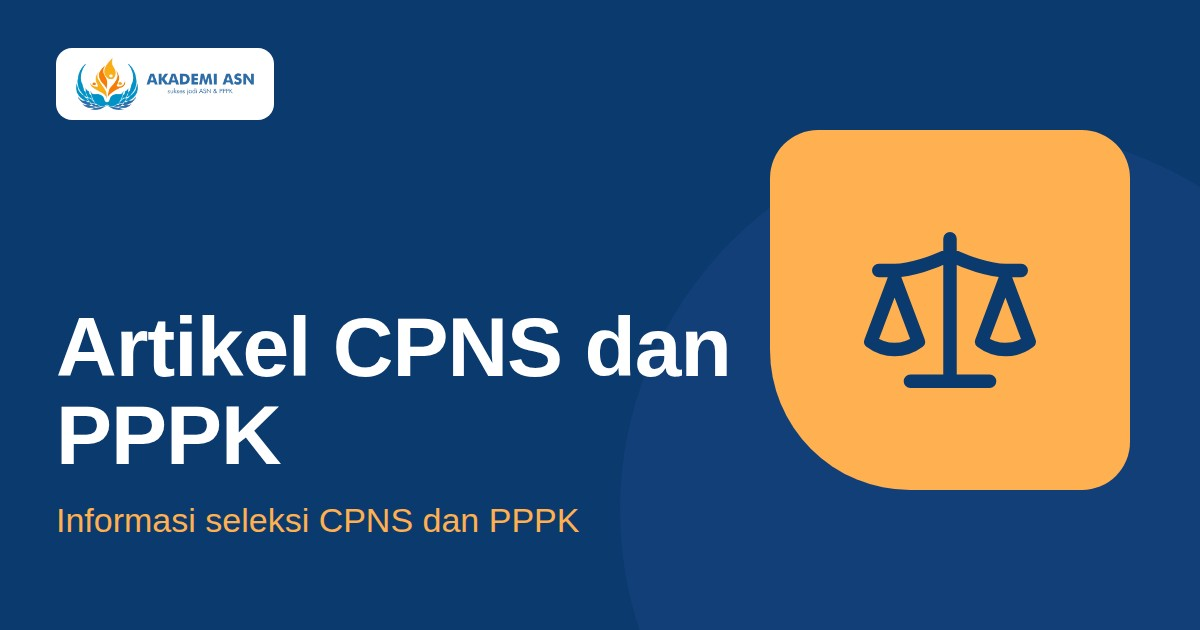
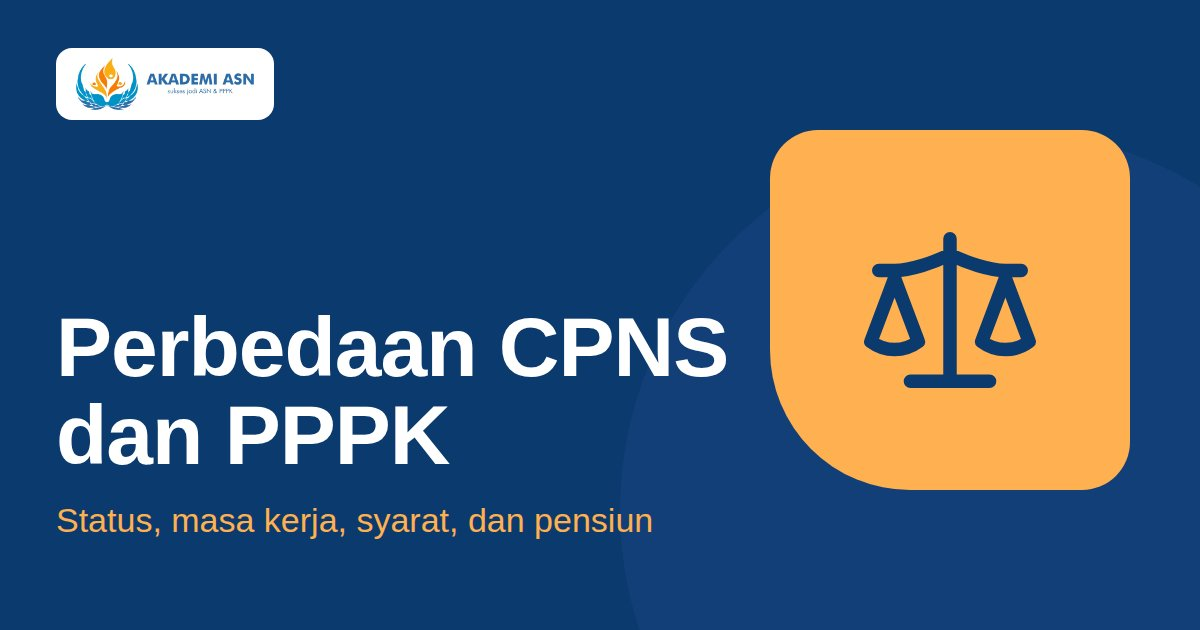
feat: give every Artikel its own cover
The default exam-track covers ("Artikel CPNS" / "Info & tips seleksi
CPNS") said nothing about the Artikel they sat on, and the owner does
not want them on any thumbnail again. `cover` is now required in the
Artikel schema, so typecheck fails for an Artikel without one, and the
default covers and their fallback are removed.

CPNS 2027 and Rekrutmen Bersama BUMN 2026 get dedicated covers, and the
Perbedaan CPNS dan PPPK cover drops its generic label and tagline. The
article-writing guide and /write-article now define how a cover is
written and rendered, and ADRs 0003 and 0005 note that their
default-cover part no longer applies.

Changed region(s): [[0.0308, 0.4825, 0.6167, 0.6032], [0.0308, 0.6333, 0.37, 0.754], [0.0308, 0.7841, 0.555, 0.8444]]

diff --git a/.scratch/blog/covers/cover.html b/.scratch/blog/covers/cover.html
@@ -1,5 +1,5 @@
 <!doctype html>
-<!-- Artikel cover template. Open cover.html#cpns | #pppk | #bumn | #tips-info | #perbedaan-cpns-dan-pppk | #materi-tkp-cpns | #pppk-paruh-waktu-jadi-penuh-waktu at a 1200x630 viewport. -->
+<!-- Artikel cover template. Open cover.html#perbedaan-cpns-dan-pppk | #materi-tkp-cpns | #pppk-paruh-waktu-jadi-penuh-waktu | #cpns-2027 | #rekrutmen-bersama-bumn-2026 at a 1200x630 viewport. -->
 <html lang="id">
 <head>
 <meta charset="utf-8">
@@ -28,15 +28,13 @@
 <script>
   const svg = (d) => `<svg viewBox="0 0 24 24">${d}</svg>`;
   const covers = {
-    cpns: ["Artikel CPNS", "Info & tips seleksi CPNS", svg('<path d="M3 21h18M5 21V10M19 21V10M9 21V10M15 21V10M2 10l10-6 10 6"/>')],
-    pppk: ["Artikel PPPK", "Info & tips seleksi PPPK", svg('<rect x="5" y="3" width="14" height="18" rx="2"/><path d="M9 8h6M9 12h6M9 16h3"/>')],
-    bumn: ["Artikel BUMN", "Info & tips Rekrutmen Bersama BUMN", svg('<rect x="3" y="7" width="18" height="13" rx="2"/><path d="M9 7V5a2 2 0 0 1 2-2h2a2 2 0 0 1 2 2v2M3 13h18"/>')],
-    "perbedaan-cpns-dan-pppk": ["Artikel CPNS dan PPPK", "Informasi seleksi CPNS dan PPPK", svg('<path d="M12 3v18M7 21h10M3 7h2c2 0 5-1 7-2 2 1 5 2 7 2h2"/><path d="m16 16 3-8 3 8c-.87.65-1.92 1-3 1s-2.13-.35-3-1Z"/><path d="m2 16 3-8 3 8c-.87.65-1.92 1-3 1s-2.13-.35-3-1Z"/>')],
+    "perbedaan-cpns-dan-pppk": ["Perbedaan CPNS dan PPPK", "Status, masa kerja, syarat, dan pensiun", svg('<path d="M12 3v18M7 21h10M3 7h2c2 0 5-1 7-2 2 1 5 2 7 2h2"/><path d="m16 16 3-8 3 8c-.87.65-1.92 1-3 1s-2.13-.35-3-1Z"/><path d="m2 16 3-8 3 8c-.87.65-1.92 1-3 1s-2.13-.35-3-1Z"/>')],
     "materi-tkp-cpns": ["Materi TKP CPNS", "6 aspek dan sistem penilaiannya", svg('<path d="M16 21v-2a4 4 0 0 0-4-4H6a4 4 0 0 0-4 4v2"/><circle cx="9" cy="7" r="4"/><path d="m16 11 2 2 4-4"/>')],
     "pppk-paruh-waktu-jadi-penuh-waktu": ["PPPK Paruh Waktu", "Jalur jadi PPPK penuh waktu", svg('<path d="M16 7h6v6"/><path d="m22 7-8.5 8.5-5-5L2 17"/>')],
-    "tips-info": ["Tips & Info", "Seleksi CPNS, PPPK, dan BUMN", svg('<path d="M9 18h6M10 21h4M12 3a6 6 0 0 0-3.5 10.9c.6.5 1 1.2 1 2.1h5c0-.9.4-1.6 1-2.1A6 6 0 0 0 12 3z"/>')],
+    "cpns-2027": ["CPNS 2027", "Jadwal pendaftaran dan syarat pelamar", svg('<path d="M8 2v4M16 2v4"/><rect x="3" y="4" width="18" height="18" rx="2"/><path d="M3 10h18"/>')],
+    "rekrutmen-bersama-bumn-2026": ["Rekrutmen BUMN 2026", "Status pendaftaran dan cara bersiap", svg('<rect x="3" y="7" width="18" height="13" rx="2"/><path d="M9 7V5a2 2 0 0 1 2-2h2a2 2 0 0 1 2 2v2M3 13h18"/>')],
   };
-  const [label, tagline, icon] = covers[location.hash.slice(1)] ?? covers.cpns;
+  const [label, tagline, icon] = covers[location.hash.slice(1)];
   document.getElementById("label").textContent = label;
   document.getElementById("tagline").textContent = tagline;
   document.getElementById("icon").innerHTML = icon;

diff --git a/data/artikel.ts b/data/artikel.ts
@@ -12,6 +12,10 @@ export const artikel = [
       "Pendaftaran CPNS 2027 diperkirakan dibuka awal 2027, tetapi jadwal, formasi, dan syaratnya belum ditetapkan. Ini yang sudah resmi per 20 Oktober 2026.",
     kategori: ["informasi"],
     examTrack: ["cpns"],
+    cover: {
+      src: "/img/blog/cover-cpns-2027.jpg",
+      alt: "CPNS 2027: jadwal pendaftaran dan syarat pelamar dari Akademi ASN",
+    },
     penulis: "dimas-maulana",
     status: "published",
     publishedAt: "2026-10-20",
@@ -236,6 +240,10 @@ export const artikel = [
       "Rekrutmen Bersama BUMN 2026 belum diumumkan FHCI maupun BP BUMN per 13 Oktober 2026. Pelajari alur RBB 2025 sebagai acuan dan kenali tautan pendaftaran palsu.",
     kategori: ["informasi", "tips"],
     examTrack: ["bumn"],
+    cover: {
+      src: "/img/blog/cover-rekrutmen-bersama-bumn-2026.jpg",
+      alt: "Rekrutmen Bersama BUMN 2026: status pendaftaran dan cara bersiap dari Akademi ASN",
+    },
     penulis: "dimas-maulana",
     status: "published",
     publishedAt: "2026-10-13",
@@ -374,7 +382,7 @@ export const artikel = [
     examTrack: ["cpns", "pppk"],
     cover: {
       src: "/img/blog/cover-perbedaan-cpns-dan-pppk.jpg",
-      alt: "Perbedaan CPNS dan PPPK: informasi seleksi dari Akademi ASN",
+      alt: "Perbedaan CPNS dan PPPK: status, masa kerja, syarat, dan pensiun dari Akademi ASN",
     },
     penulis: "dimas-maulana",
     status: "published",

diff --git a/lib/artikel.ts b/lib/artikel.ts
@@ -1,7 +1,6 @@
 import { readdirSync, readFileSync } from "node:fs";
 import path from "node:path";
 import { artikel } from "@/data/artikel";
-import { artikelCover } from "@/data/artikel-cover";
 import { kategori } from "@/data/kategori";
 import { penulis } from "@/data/penulis";
 import { artikelMatches } from "@/lib/artikel-search";
@@ -44,14 +43,14 @@ export const getKategori = (slug: string) =>
 export const getPenulis = (slug: string) =>
   penulis.find((entry) => entry.slug === slug);
 
-// An Artikel's primary Kategori and the fields that fall back to its first
-// exam track or to the title. `KategoriSlug` types the slug, so the lookup
+// An Artikel's primary Kategori, cover, and the seoTitle that falls back to
+// the title. `KategoriSlug` types the slug, so the lookup
 // always finds an entry.
 export const resolveArtikel = (entry: Artikel) => {
   const kategori = getKategori(entry.kategori[0])!;
   return {
     kategori,
-    cover: entry.cover ?? artikelCover[entry.examTrack[0]],
+    cover: entry.cover,
     seoTitle: entry.seoTitle ?? entry.title,
   };
 };

diff --git a/lib/artikel-schema.ts b/lib/artikel-schema.ts
@@ -19,14 +19,13 @@ export type Artikel = {
   excerpt: string;
   // The first Kategori is the primary one, shown in the breadcrumb.
   kategori: [KategoriSlug, ...KategoriSlug[]];
-  // The first exam track picks the default cover.
   examTrack: [ExamTrack, ...ExamTrack[]];
   penulis: PenulisSlug;
   status: "draft" | "published";
   publishedAt?: string;
   updatedAt?: string;
   focusKeyword: string;
-  cover?: Image;
+  cover: Image;
   references: Reference[];
   related?: string[];
 };

diff --git a/docs/agents/article-writing.md b/docs/agents/article-writing.md
@@ -38,13 +38,13 @@ Every `h2` holds plain text with letters or digits (its anchor `id` is built fro
 | `description` | Meta description, 120–160 characters. Holds the focus keyword and a reason to click. |
 | `excerpt` | One or two sentences. It is the lead, the card text, and the RSS description. Holds the focus keyword. |
 | `kategori` | One or more of `informasi`, `tips`, `latihan-soal`, `materi`, `karier`: the content type, never the exam track. List the best fit first; it is the primary Kategori in the breadcrumb. |
-| `examTrack` | One or more of `cpns`, `pppk`, `bumn`: the tracks the Artikel is about. It ranks Artikel Terkait and picks the default cover; Artikel Terbaru ignores it. List all three for a topic that applies to every track. |
+| `examTrack` | One or more of `cpns`, `pppk`, `bumn`: the tracks the Artikel is about. It ranks Artikel Terkait; Artikel Terbaru ignores it. List all three for a topic that applies to every track. |
 | `penulis` | `tim-akademi-asn` or `dimas-maulana`. See Penulis. |
 | `status` | `"draft"` while writing; `"published"` after owner approval. |
 | `publishedAt` | ISO date (`2026-10-02`). Set once at publish, never changed. |
 | `updatedAt` | ISO date. Set only after a substantive change to published content. |
 | `focusKeyword` | The keyword the owner gave, lowercase. Unique across Artikel. Never rendered. |
-| `cover` | Omit. The default cover of the first `examTrack` applies. When the owner supplies one: `{ src, alt }`, 1200×630. |
+| `cover` | Required: `{ src, alt }`, 1200×630 JPEG at `public/img/blog/cover-{slug}.jpg`, unless the owner supplies one. See Cover. |
 | `references` | `{ title, url, publisher, accessedAt }[]`. At least one official source. `accessedAt` is the day the source was read. |
 | `related` | Up to 3 slugs of published Artikel for Artikel Terkait. |
 
@@ -88,6 +88,18 @@ Vary the opening. The first word of a new title differs from the first word of e
 | 8 Perbedaan PNS dan PPPK, dari Hak, Gaji, dan Masa Kerja | 8 Perbedaan PNS dan PPPK dari Hak hingga Masa Kerja |
 
 Why these rules: in 17 CPNS and PPPK headlines from Kompas, detik, Tempo, and BKN (sampled October 2026), 8 used a comma, 6 of them as a "Topik, Penjelasan" separator, and colon and question titles were common too. The headlines without them ("Mengenal Lebih Dekat Perbedaan antara PNS dan PPPK", "Ini Perbedaan Gaji PNS dan PPPK") show the voice the Blog wants. Journalism style guides agree: short, active, understood in one read, never ending in `?` (RRI news style guide; Politeknik Negeri Jakarta).
+
+## Cover
+
+Every Artikel has its own cover; there is no default. `cover` is required in `lib/artikel-schema.ts`, so typecheck fails without it. The cover is the card thumbnail and the social preview, so it names this Artikel, not its exam track.
+
+- Add an entry `slug: [label, tagline, icon]` to `.scratch/blog/covers/cover.html`, open `cover.html#{slug}` at 1200×630, and save the screenshot as `public/img/blog/cover-{slug}.jpg`.
+- Label: the core topic, usually the focus keyword in title case (`CPNS 2027`, `Materi TKP CPNS`). At most two lines.
+- Tagline: what the Artikel covers, summarised from its `title` and `h2`s (`Jadwal pendaftaran dan syarat pelamar`). No date: it would date the cover.
+- Icon: one simple line icon that fits the topic (calendar for a schedule, rising line for a career move).
+- `alt`: `{label}: {tagline in lowercase} dari Akademi ASN`.
+- Never generic text that fits any Artikel of a track, such as "Artikel CPNS" or "Info & tips seleksi CPNS".
+- Show the cover at Gate 1 with the metadata entry.
 
 ## Keyword rules
 

diff --git a/.claude/skills/write-article/SKILL.md b/.claude/skills/write-article/SKILL.md
@@ -33,6 +33,7 @@ Show the owner:
 
 - the outline (`h2`s as questions, `h3`s, where `<BacaJuga>`, `<CtaKonsultasi>`, and `<LatihanSoal>` go),
 - every factual claim with its sources, grouped by `h2`,
+- the cover label, tagline, and icon, following Cover in the guide,
 - the full metadata entry, with a `title` that passes every Title rule in the guide and the first words of the three newest published Artikel beside it, so the owner can check the opening differs.
 
 Stop. Wait for the owner's approval. Apply requested changes and show Gate 1 again until approved. Write no file before approval.
@@ -41,7 +42,7 @@ Stop. Wait for the owner's approval. Apply requested changes and show Gate 1 aga
 
 Done when `bun run lint` and `bun run typecheck` pass and the preview URL is given.
 
-Write `data/artikel/{slug}.mdx` and add the entry to `data/artikel.ts` with `status: "draft"`, no `publishedAt`, and `penulis: "tim-akademi-asn"`. Run `bun run lint`, then `bun run typecheck`. Give the preview URL: `http://localhost:3000/blog/{slug}` under `bun dev`.
+Render the cover to `public/img/blog/cover-{slug}.jpg` (Cover in the guide). Write `data/artikel/{slug}.mdx` and add the entry to `data/artikel.ts` with `status: "draft"`, no `publishedAt`, and `penulis: "tim-akademi-asn"`. Run `bun run lint`, then `bun run typecheck`. Give the preview URL: `http://localhost:3000/blog/{slug}` under `bun dev`.
 
 ## 5. Gate 2
 

diff --git a/CONTEXT.md b/CONTEXT.md
@@ -160,7 +160,7 @@ The Kategori for what happens after a candidate passes a selection: employment s
 _Avoid_: Karier ASN (BUMN employees are not ASN), Kepegawaian
 
 **Artikel exam track**:
-The exam tracks an Artikel is about, one or more. Every Artikel has at least one. It has no public page; it ranks Artikel Terkait and picks the default cover. It does not pick Artikel Terbaru. An Artikel that applies to every track lists all three.
+The exam tracks an Artikel is about, one or more. Every Artikel has at least one. It has no public page; it ranks Artikel Terkait. It does not pick Artikel Terbaru. An Artikel that applies to every track lists all three.
 _Avoid_: Kategori CPNS/PPPK/BUMN (retired)
 
 **Penulis**:

diff --git a/docs/adr/0003-kategori-by-content-type.md b/docs/adr/0003-kategori-by-content-type.md
@@ -4,7 +4,7 @@ Date: 2026-10-13
 
 ## Status
 
-Accepted; the Artikel Terbaru part is superseded by [0005](0005-artikel-terbaru-ignores-exam-track.md). Amended 2026-10-16: a fifth Kategori, Karier.
+Accepted; the Artikel Terbaru part is superseded by [0005](0005-artikel-terbaru-ignores-exam-track.md). Amended 2026-10-16: a fifth Kategori, Karier. The default-cover part is superseded 2026-10-20: every Artikel has its own cover and there is no default (`docs/agents/article-writing.md`, Cover).
 
 ## Context
 

diff --git a/docs/adr/0005-artikel-terbaru-ignores-exam-track.md b/docs/adr/0005-artikel-terbaru-ignores-exam-track.md
@@ -4,7 +4,7 @@ Date: 2026-10-14
 
 ## Status
 
-Accepted. Supersedes the Artikel Terbaru part of [0003](0003-kategori-by-content-type.md).
+Accepted. Supersedes the Artikel Terbaru part of [0003](0003-kategori-by-content-type.md). The default-cover part is superseded 2026-10-20: every Artikel has its own cover and there is no default (`docs/agents/article-writing.md`, Cover).
 
 ## Context
 
